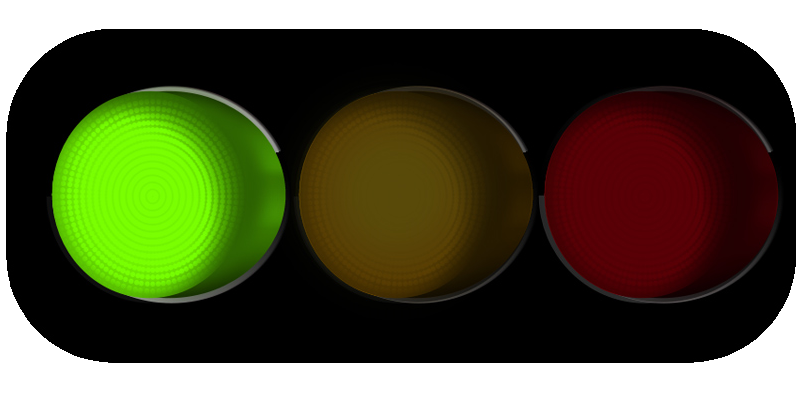
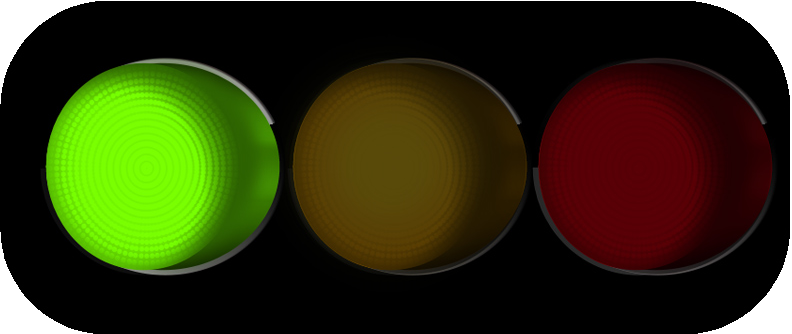
Cambios en las dimensiones de las imágenes.
Tiempo seteado para los 50 mins de las charlas.

diff --git a/src/main/resources/js/index.js b/src/main/resources/js/index.js
@@ -1,5 +1,6 @@
 function start() {
-    var maxTime = 60 * 60, mins, secs, momento = $("#momento");
+                //Cantidad de minutos * 60 segs.
+    var maxTime = 50 * 60, mins, secs, momento = $("#momento");
 
     momento.text("Charla");
     $("#imagen-verde").removeClass('hidden');
@@ -18,7 +19,7 @@ function start() {
         $("#timer").text(minutes + ":" + seconds);
 
         var val = maxTime;
-        if (val < 0.25 * 60 && val > 0) {
+        if (val < 10 * 60 && val > 0) {
             $("#imagen-verde").addClass("hidden");
             $("#imagen-yellow").removeClass("hidden");
             momento.text('Tiempo de preguntas');
